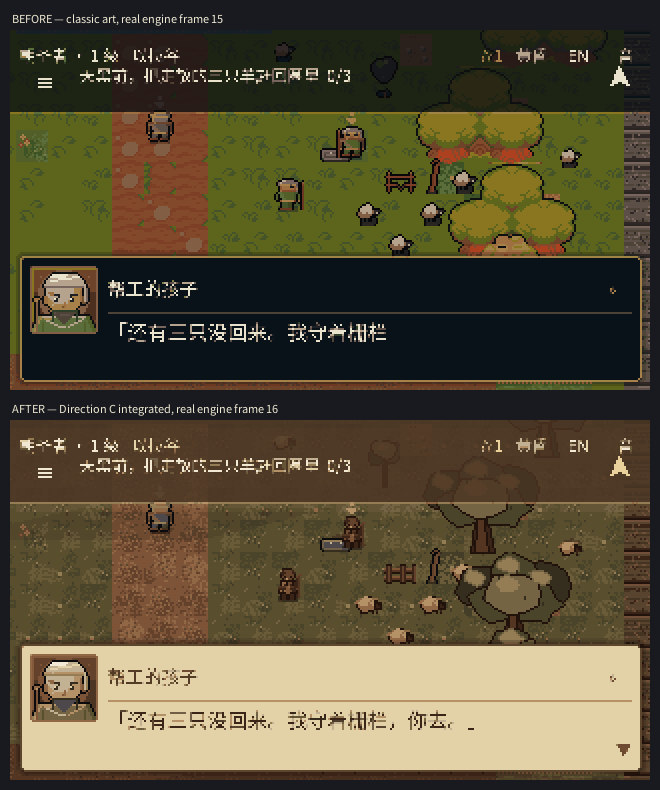
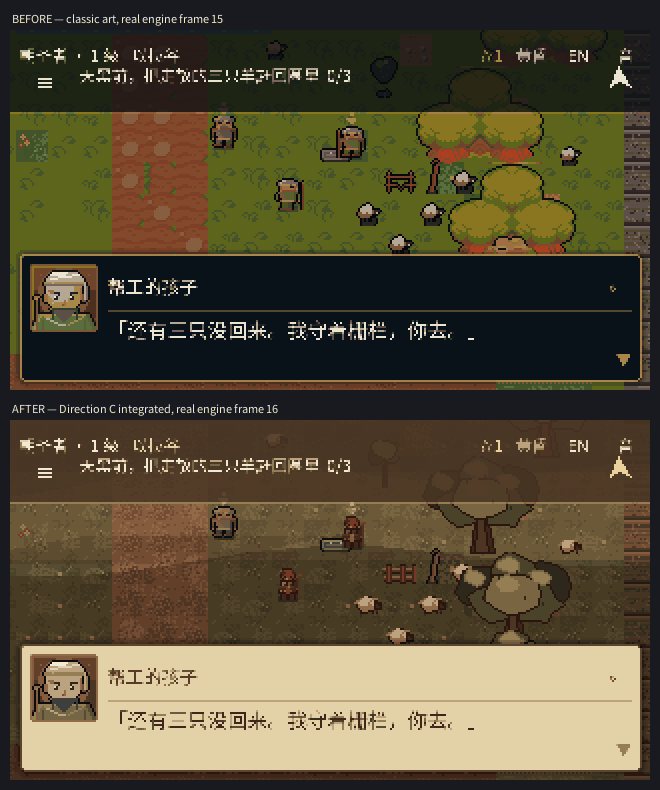
ART RESET: strengthen the three value planes and give the far ridge a crest
CI 42781811086 measured the corrected composition at world_value_spread
12.3 — up from the failed v1 (8.0) and the palette-only prototype (10.6),
but still far below the classic frame's 20.1. Per-row luma showed why: the
three zones were too close in value (66 / 85 / 61).

v3 keeps the SAME spatially-structured composition (no global brightness
or saturation change) and:
- deepens the cool far ridge 0.38 -> 0.50,
- adds a thin sunlit crest along the irregular hill line so it reads as
  terrain volume rather than a flat wash,
- lifts the warm middle ground 0.16 -> 0.28,
- deepens the cast wedge 0.20 -> 0.26 and near shade 0.34 -> 0.44.

A local alpha-composite estimate on the real v2 frame predicts spread
~21-25; the next CI frame is the evidence, not this estimate. Preserves
16_craft_v2.png and adds 10_craft_iteration2.png for the audit trail.

diff --git a/tools/art_reset/measure_real_engine.py b/tools/art_reset/measure_real_engine.py
@@ -102,8 +102,16 @@ def main():
         report["16_craft_v1"] = metrics(q)
         sheet([
             ("CRAFT v1 — depth planes outside the visible world (spread 8.0)", q),
-            ("CRAFT v2 — three value planes inside the visible world", after),
+            ("CRAFT v3 — final value planes, real CI frame 16", after),
         ], DIAG / "09_craft_iteration.png")
+    v2 = COMP / "16_craft_v2.png"
+    if v2.exists():
+        r = load(v2)
+        report["16_craft_v2"] = metrics(r)
+        sheet([
+            ("CRAFT v2 — three planes correctly placed, too weak (spread 12.3)", r),
+            ("CRAFT v3 — strengthened planes + sunlit crest (current CI)", after),
+        ], DIAG / "10_craft_iteration2.png")
 
     out = COMP / "real_engine_metrics.json"
     out.write_text(json.dumps(report, indent=2) + "\n")
